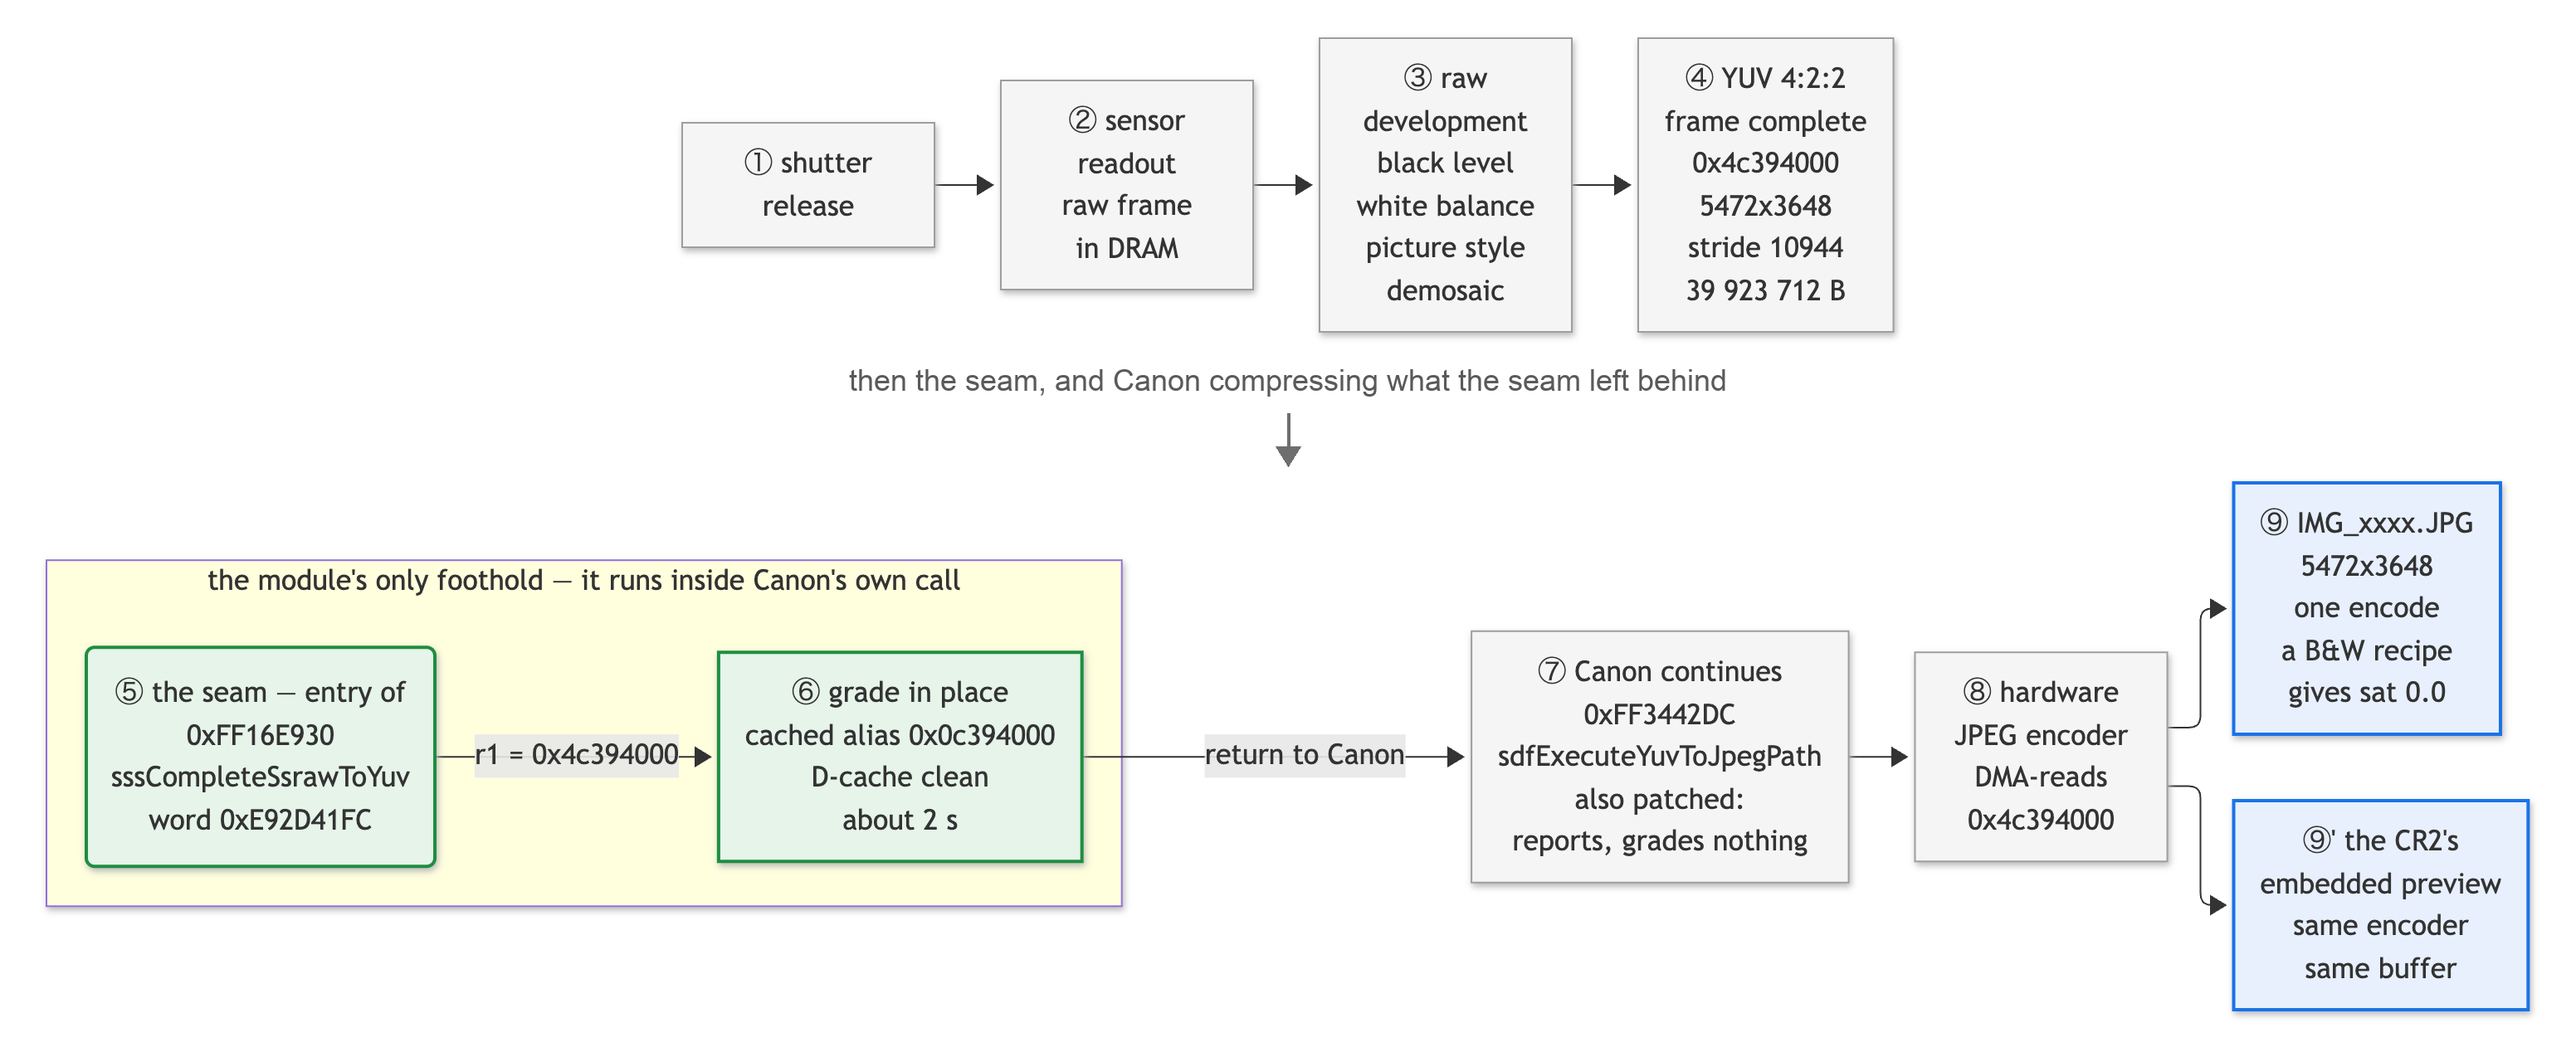
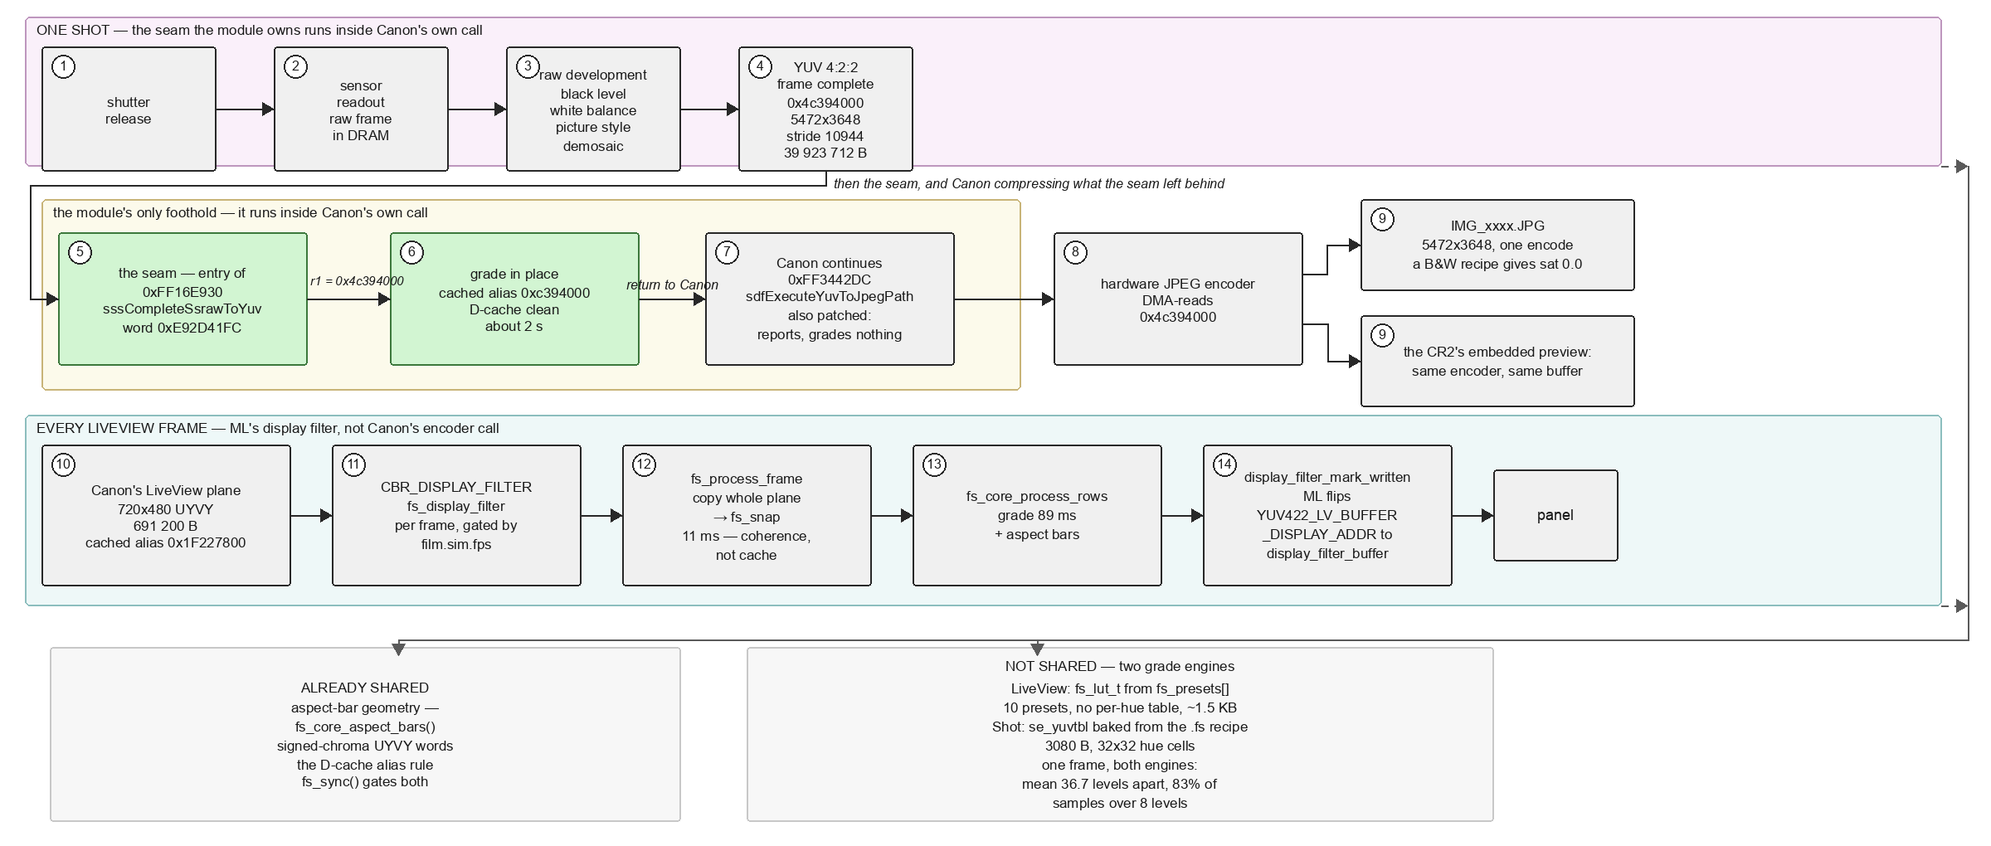
docs: the LiveView lane on the pipeline figure, and what it reuses
The figure now carries both paths: the shot seam the module owns, and
the ML display filter that grades every preview frame, with a side box
for what the two share and what they do not.

Mermaid could not draw it -- direction LR inside a subgraph is ignored
and an edge across a subgraph boundary drags the graph into one row --
so the figure is drawn by docs/make_pipeline_figure.py, which is now
committed with it.

The reuse answer, measured (se/hosttest/bench_grade): the preview and
the shot run different engines and land mean 36.7 levels apart on one
frame; pointing LiveView at the shot's tables would cost about 1.4x the
arithmetic. Also corrected the figure's addresses: 4c394000 is the
buffer, 0c394000 is the cached alias the seam grades.

diff --git a/docs/make_pipeline_figure.py b/docs/make_pipeline_figure.py
@@ -1,0 +1,228 @@
+#!/usr/bin/env python3
+"""Draw the capture + LiveView pipeline figure.
+
+Mermaid cannot lay this out: `direction LR` inside a subgraph is ignored, and
+an edge that crosses a subgraph boundary drags the whole graph into one row.
+Two lanes plus two summary boxes need coordinates, so this draws them.
+
+    python3 docs/make_pipeline_figure.py docs/img/capture-pipeline.png
+
+Everything on it is a fact from the sources: the addresses, sizes and the two
+measured costs (copy 11 ms, grade 89 ms) come from ML/LOGS/FILMSIM.LOG on the
+6D; the "mean 36.7 levels apart" comes from se/hosttest/bench_grade.
+"""
+import os
+import sys
+
+from PIL import Image, ImageDraw, ImageFont
+
+W, H = 2400, 1020
+BG = (255, 255, 255)
+BOX = (240, 240, 240)
+EDGE = (40, 40, 40)
+TXT = (25, 25, 25)
+MUTED = (90, 90, 90)
+SHOT_BG = (250, 240, 250)
+SHOT_LINE = (190, 150, 190)
+LIVE_BG = (238, 248, 248)
+LIVE_LINE = (140, 190, 190)
+NOTE_BG = (247, 247, 247)
+NOTE_LINE = (200, 200, 200)
+
+FONT = "/System/Library/Fonts/Supplemental/Arial.ttf"
+FONT_I = "/System/Library/Fonts/Supplemental/Arial Italic.ttf"
+
+
+def font(size, italic=False):
+    for p in ((FONT_I if italic else FONT), FONT):
+        if os.path.exists(p):
+            return ImageFont.truetype(p, size)
+    return ImageFont.load_default()
+
+
+def badge(d, cx, cy, n, r=14):
+    """The stage number, drawn: Arial has no circled digits and PIL renders
+    them as empty boxes."""
+    d.ellipse([cx - r, cy - r, cx + r, cy + r], fill=(255, 255, 255), outline=EDGE, width=2)
+    f = font(16)
+    t = str(n)
+    tw = d.textbbox((0, 0), t, font=f)[2]
+    th = d.textbbox((0, 0), t, font=f)[3]
+    d.text((cx - tw / 2, cy - th / 2 - 2), t, font=f, fill=TXT)
+
+
+def box(d, x, y, w, h, lines, fill=BOX, outline=EDGE, size=17, num=None):
+    d.rounded_rectangle([x, y, x + w, y + h], radius=4, fill=fill, outline=outline, width=2)
+    if num:
+        badge(d, x + 26, y + 24, num)
+    f = font(size)
+    heights = [d.textbbox((0, 0), ln, font=f)[3] for ln in lines]
+    gap = 4
+    total = sum(heights) + gap * (len(lines) - 1)
+    ty = y + (h - total) / 2
+    for ln, lh in zip(lines, heights):
+        tw = d.textbbox((0, 0), ln, font=f)[2]
+        d.text((x + (w - tw) / 2, ty), ln, font=f, fill=TXT)
+        ty += lh + gap
+
+
+def arrow(d, pts, label=None, dashed=False, lw=2):
+    for i in range(len(pts) - 1):
+        (x1, y1), (x2, y2) = pts[i], pts[i + 1]
+        if dashed:
+            # manual dashes: PIL has no dashed stroke
+            n = max(1, int(((x2 - x1) ** 2 + (y2 - y1) ** 2) ** 0.5 // 12))
+            for k in range(n):
+                a = k / n
+                b = (k + 0.5) / n
+                d.line([x1 + (x2 - x1) * a, y1 + (y2 - y1) * a,
+                        x1 + (x2 - x1) * b, y1 + (y2 - y1) * b], fill=MUTED, width=lw)
+        else:
+            d.line([x1, y1, x2, y2], fill=EDGE, width=lw)
+    (x1, y1), (x2, y2) = pts[-2], pts[-1]
+    ang = 8
+    if abs(x2 - x1) >= abs(y2 - y1):
+        s = 1 if x2 > x1 else -1
+        tri = [(x2, y2), (x2 - s * 14, y2 - ang), (x2 - s * 14, y2 + ang)]
+    else:
+        s = 1 if y2 > y1 else -1
+        tri = [(x2, y2), (x2 - ang, y2 - s * 14), (x2 + ang, y2 - s * 14)]
+    d.polygon(tri, fill=EDGE if not dashed else MUTED)
+    if label:
+        f = font(16, italic=True)
+        mx = (x1 + x2) / 2
+        my = (y1 + y2) / 2
+        tw = d.textbbox((0, 0), label, font=f)[2]
+        if abs(x2 - x1) >= abs(y2 - y1):
+            d.text((mx - tw / 2, my - 26), label, font=f, fill=TXT)
+        else:
+            d.text((mx + 12, my - 10), label, font=f, fill=TXT)
+
+
+def main():
+    out = sys.argv[1] if len(sys.argv) > 1 else "docs/img/capture-pipeline.png"
+    img = Image.new("RGB", (W, H), BG)
+    d = ImageDraw.Draw(img)
+
+    BW, BH = 210, 150
+
+    # ---------------------------------------------------------------- row A
+    d.rounded_rectangle([30, 20, W - 60, 200], radius=6, fill=SHOT_BG,
+                        outline=SHOT_LINE, width=2)
+    d.text((44, 26), "ONE SHOT — the seam the module owns runs inside Canon's own call",
+           font=font(17), fill=TXT)
+
+    ax = [50, 330, 610, 890]
+    rowA = [
+        ["shutter", "release"],
+        ["sensor", "readout", "raw frame", "in DRAM"],
+        ["raw development", "black level", "white balance", "picture style", "demosaic"],
+        ["YUV 4:2:2", "frame complete", "0x4c394000", "5472x3648", "stride 10944", "39 923 712 B"],
+    ]
+    for i, (x, lines) in enumerate(zip(ax, rowA)):
+        box(d, x, 56, BW, BH, lines, num=i + 1)
+    for x in ax[:-1]:
+        arrow(d, [(x + BW, 131), (x + 280, 131)])
+
+    # ---------------------------------------------------------------- row B
+    # the foothold panel
+    d.rounded_rectangle([50, 240, 1230, 470], radius=6, fill=(252, 250, 235),
+                        outline=(200, 180, 120), width=2)
+    d.text((64, 246), "the module's only foothold — it runs inside Canon's own call",
+           font=font(17), fill=TXT)
+
+    box(d, 70, 280, 300, 160,
+        ["the seam — entry of", "0xFF16E930", "sssCompleteSsrawToYuv",
+         "word 0xE92D41FC"], fill=(210, 245, 210), outline=(60, 120, 60), num=5)
+    box(d, 470, 280, 300, 160,
+        ["grade in place", "cached alias 0xc394000", "D-cache clean", "about 2 s"],
+        fill=(210, 245, 210), outline=(60, 120, 60), num=6)
+    arrow(d, [(370, 360), (470, 360)])
+    d.text((374, 330), "r1 = 0x4c394000", font=font(15, italic=True), fill=TXT)
+
+    # ④ down to ⑤, along the outside of the panel so it crosses no label,
+    # then in through ⑤'s left edge
+    arrow(d, [(995, 206), (995, 224), (36, 224), (36, 360), (70, 360)])
+    d.text((1005, 212), "then the seam, and Canon compressing what the seam left behind",
+           font=font(16, italic=True), fill=TXT)
+
+    box(d, 850, 280, 300, 160,
+        ["Canon continues", "0xFF3442DC", "sdfExecuteYuvToJpegPath",
+         "also patched:", "reports, grades nothing"], num=7)
+    arrow(d, [(770, 360), (850, 360)], "return to Canon")
+
+    box(d, 1270, 280, 300, 160,
+        ["hardware JPEG encoder", "DMA-reads", "0x4c394000"], num=8)
+    arrow(d, [(1150, 360), (1270, 360)])
+
+    box(d, 1640, 240, 330, 110,
+        ["IMG_xxxx.JPG", "5472x3648, one encode", "a B&W recipe gives sat 0.0"], num=9)
+    box(d, 1640, 380, 330, 110,
+        ["the CR2's embedded preview:", "same encoder, same buffer"], num=9)
+    arrow(d, [(1570, 330), (1600, 330), (1600, 295), (1640, 295)])
+    arrow(d, [(1570, 390), (1600, 390), (1600, 435), (1640, 435)])
+
+    # ---------------------------------------------------------------- row C
+    d.rounded_rectangle([30, 500, W - 60, 730], radius=6, fill=LIVE_BG,
+                        outline=LIVE_LINE, width=2)
+    d.text((44, 506), "EVERY LIVEVIEW FRAME — ML's display filter, not Canon's encoder call",
+           font=font(17), fill=TXT)
+
+    lx = [50, 400, 750, 1100, 1450]
+    rowC = [
+        ["Canon's LiveView plane", "720x480 UYVY", "691 200 B",
+         "cached alias 0x1F227800"],
+        ["CBR_DISPLAY_FILTER", "fs_display_filter", "per frame, gated by", "film.sim.fps"],
+        ["fs_process_frame", "copy whole plane", "→ fs_snap", "11 ms — coherence,",
+         "not cache"],
+        ["fs_core_process_rows", "grade 89 ms", "+ aspect bars"],
+        ["display_filter_mark_written", "ML flips", "YUV422_LV_BUFFER", "_DISPLAY_ADDR to",
+         "display_filter_buffer"],
+    ]
+    for i, (x, lines) in enumerate(zip(lx, rowC)):
+        box(d, x, 536, 300, 170, lines, num=10 + i)
+    for x in lx[:-1]:
+        arrow(d, [(x + 300, 621), (x + 350, 621)])
+    box(d, 1800, 566, 150, 110, ["panel"], size=18)
+    arrow(d, [(1750, 621), (1800, 621)])
+
+    # ---------------------------------------------------------------- summary
+    shared = [
+        "ALREADY SHARED",
+        "",
+        "aspect-bar geometry —",
+        "fs_core_aspect_bars()",
+        "signed-chroma UYVY words",
+        "the D-cache alias rule",
+        "fs_sync() gates both",
+    ]
+    differ = [
+        "NOT SHARED — two grade engines",
+        "",
+        "LiveView: fs_lut_t from fs_presets[]",
+        "10 presets, no per-hue table, ~1.5 KB",
+        "Shot: se_yuvtbl baked from the .fs recipe",
+        "3080 B, 32x32 hue cells",
+        "one frame, both engines:",
+        "mean 36.7 levels apart, 83% of",
+        "samples over 8 levels",
+    ]
+    box(d, 60, 780, 760, 210, shared, fill=NOTE_BG, outline=NOTE_LINE, size=17)
+    box(d, 900, 780, 900, 210, differ, fill=NOTE_BG, outline=NOTE_LINE, size=17)
+
+    # both lanes feed the comparison: one dashed bus down the right margin,
+    # along y=772, then a drop into each box. Nothing is crossed.
+    BUS = W - 28
+    arrow(d, [(W - 60, 200), (BUS, 200)], dashed=True)
+    arrow(d, [(W - 60, 730), (BUS, 730)], dashed=True)
+    d.line([BUS, 200, BUS, 772], fill=MUTED, width=2)
+    d.line([BUS, 772, 480, 772], fill=MUTED, width=2)
+    arrow(d, [(480, 772), (480, 790)], dashed=True)
+    arrow(d, [(1250, 772), (1250, 790)], dashed=True)
+
+    img.save(out)
+    print("wrote %s  %dx%d" % (out, W, H))
+
+
+if __name__ == "__main__":
+    main()

diff --git a/README.md b/README.md
@@ -112,8 +112,41 @@ flowchart LR
     B2 --> B4
 ```
 
-The same two rows as one image, for viewers without Mermaid:
-[capture pipeline](docs/img/capture-pipeline.png).
+The same two rows as one image, for viewers without Mermaid, **and the
+LiveView lane below them** — what ML's display filter does to every preview
+frame, and what the two lanes share:
+[capture pipeline](docs/img/capture-pipeline.png)
+([source](docs/make_pipeline_figure.py)).
+
+### What LiveView reuses, and what it does not
+
+The LiveView lane is a different entry point — ML's display filter, called per
+preview frame, not Canon's encoder call — but it is the same problem: grade a
+UYVY frame in place before something reads it.
+
+| | LiveView | The shot |
+|---|---|---|
+| entry | `CBR_DISPLAY_FILTER` → `fs_display_filter` | `0xFF16E930` `sssCompleteSsrawToYuv` |
+| source | Canon's plane, 720×480, 691,200 B | 5472×3648, stride 10944 |
+| coherence | whole plane copied to `fs_snap` first (11 ms) | grades Canon's own buffer in place |
+| grade | `fs_core_process_rows`, tables from `fs_presets[]` | `fs_yuvlook_apply`, tables baked from the `.fs` recipe |
+| cost | `lv_frame: copy=10ms grade=89ms` | about 2 s including the D-cache clean |
+| shares | aspect-bar geometry (`fs_core_aspect_bars`), the signed-chroma UYVY word, the D-cache alias rule, `fs_sync()` gating | same |
+
+The two grade engines are **not** the same look. The preview picks one of ten
+presets by stock (`fs_lut_t`, 1.5 KB, no per-hue table); the shot is graded by
+the recipe actually selected (`se_yuvtbl`, 3,080 B, 32×32 hue cells). On one
+real LiveView frame the two disagree by **mean 36.7 levels, 83 % of samples
+more than 8** — measured with `se/hosttest/bench_grade`, which also times them:
+
+```
+preview  fs_core_process_rows    0.26-0.31 ms/frame
+shot     fs_yuvlook_apply+copy   0.36-0.44 ms/frame   (3 runs, this PC; use the ratio)
+```
+
+So pointing LiveView at the shot's baked tables would give an exact preview for
+about 1.4× the arithmetic — not free, and the preview is already over its 33 ms
+budget, so it is a real change rather than an obvious one.
 
 Read it as two questions, because that is how it was verified:
 
